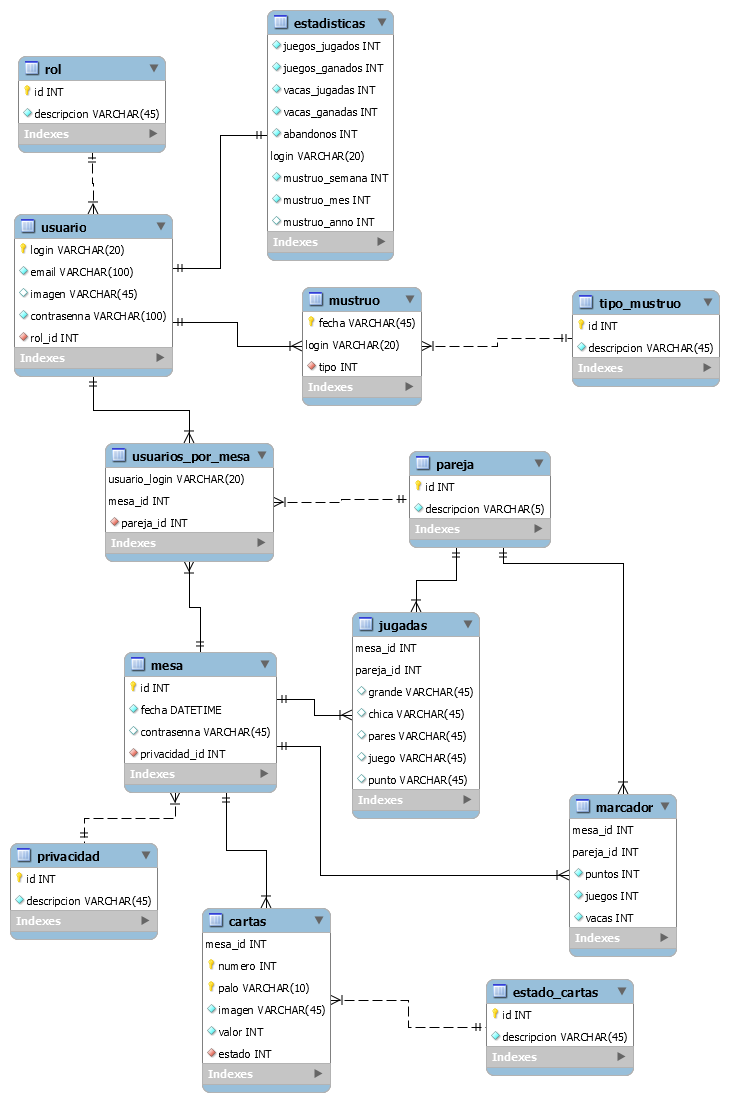
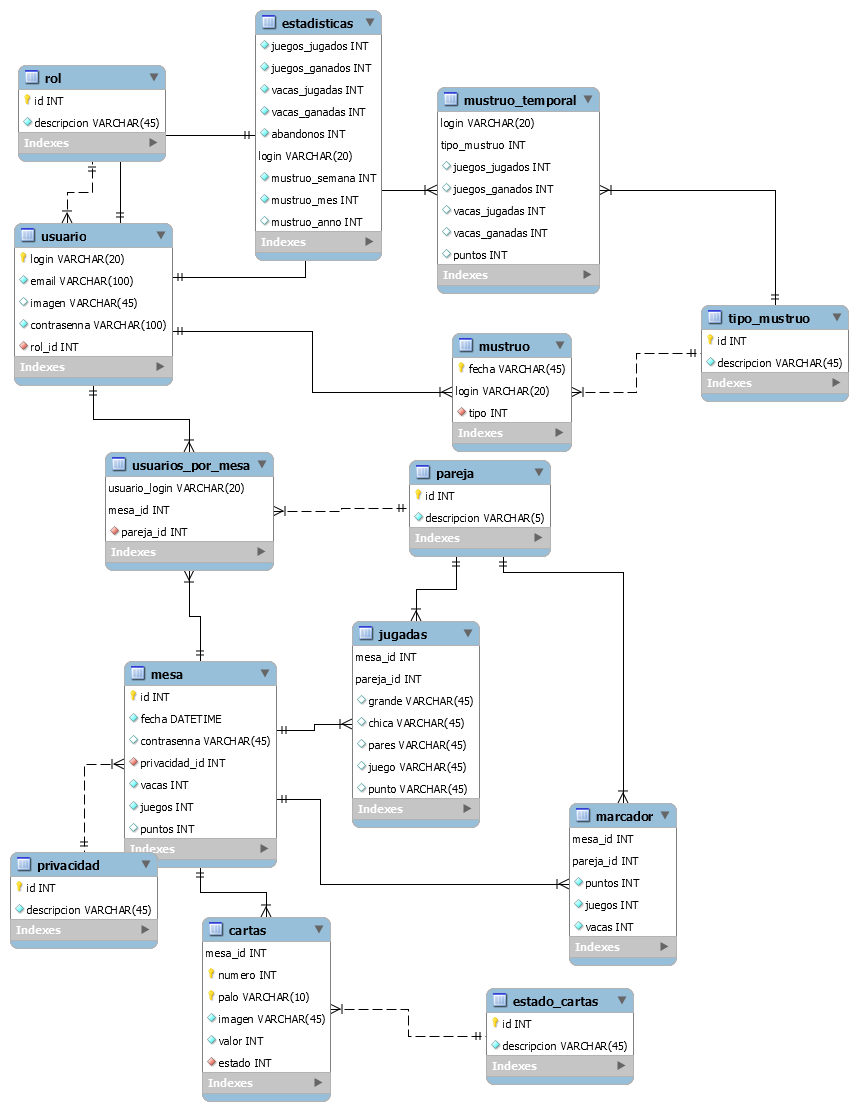
rankings y mejora BBDD

diff --git a/js/lobby.js b/js/lobby.js
@@ -6,6 +6,10 @@ var enviar = document.getElementById("enviarmensaje");
 var mensaje = document.getElementById("mensaje");
 var encabezadoEstadisiticas = document.getElementById("encabezadoestadisiticas");
 var cuerpoEstadisticas = document.getElementById("cuerpoestadisticas");
+var semana = document.getElementById("semana");
+var mes = document.getElementById("mes");
+var anno = document.getElementById("anno");
+var clasificacion = document.getElementById("clasificacion");
 
 //functions
 function renderStats(login) {
@@ -19,8 +23,56 @@ function renderStats(login) {
         <tr><th>Mustruos</th><td>${res.mustruo_semana}</td><td>${res.mustruo_mes}</td><td>${res.mustruo_anno}</td></tr>
         <tr><th>Abandonos</th><td>${res.abandonos}</td></tr></table>`;
         });
-    
 }
+
+function hacerLista(zona, data) {
+    zona.innerHTML = "";
+    var previo = "";
+    for (let user of data) {
+        if (user.login != previo) {
+            let li = document.createElement("li");
+            let login = user.login;
+            li.innerHTML = `<a>${login}</a><span class="puntos">${zona == clasificacion? user.puntos : ""}</span>`;
+            zona.append(li);
+            li.addEventListener("click", () => {
+                encabezadoEstadisiticas.innerHTML = `Estadisticas de ${login}`;
+                renderStats(login);
+            });
+            previo = user.login;
+        }
+    }
+}
+
+//rankings
+fetch(`${path}/api/ranking/0`)
+        .then((res) => res.json())
+        .then((res) => {
+            hacerLista(clasificacion, res);
+        })
+        
+semana.addEventListener("click", () => {
+    fetch(`${path}/api/ranking/0`)
+        .then((res) => res.json())
+        .then((res) => {
+            hacerLista(clasificacion, res);
+        })
+})
+
+mes.addEventListener("click", () => {
+    fetch(`${path}/api/ranking/1`)
+        .then((res) => res.json())
+        .then((res) => {
+            hacerLista(clasificacion, res);
+        })
+})
+
+anno.addEventListener("click", () => {
+    fetch(`${path}/api/ranking/2`)
+        .then((res) => res.json())
+        .then((res) => {
+            hacerLista(clasificacion, res);
+        })
+})
 
 //sockets
 socket.on('connect', () => {
@@ -29,22 +81,8 @@ socket.on('connect', () => {
 });
 
 socket.on('refrescarusuarios', (data) => {
-    usuarios.innerHTML = "";
-    var previo = "";
-    for (let user of data) {
-        if (user.login != previo) {
-            var li = document.createElement("li");
-            let login = user.login;
-            li.innerHTML = `<a>${login}</a>`;
-            usuarios.append(li);
-            li.addEventListener("click", () => {
-                encabezadoEstadisiticas.innerHTML = `Estadisticas de ${login}`;
-                renderStats(login);
-            });
-            previo = user.login;
-        }
-        
-    }
+    hacerLista(usuarios, data);
+
 });
 
 if (usuario != "anonimo") {

diff --git a/orm/ormUser.php b/orm/ormUser.php
@@ -18,7 +18,9 @@ class OrmUser {
         $sql = "INSERT INTO usuario VALUES (?, ?, ?, ?, ?)";        
         $params2 = [$login];
         $sql2 = "INSERT INTO estadisticas (`login`) VALUES (?)";
-        $todoOk = $bd->execute($sql, $params) && $bd->execute($sql2, $params2);
+        $params3 = [$login, $login, $login];
+        $sql3 = "INSERT INTO mustruo_temporal (`login`, `tipo_mustruo`) VALUES (?, 0), (?, 1), (?, 2)";
+        $todoOk = $bd->execute($sql, $params) && $bd->execute($sql2, $params2) && $bd->execute($sql3, $params3);
         $bd->commit();
         return $todoOk;
     }
@@ -42,5 +44,12 @@ class OrmUser {
         $params = [$login];
         $sql = "SELECT `juegos_jugados`, `juegos_ganados`, `vacas_jugadas`, `vacas_ganadas`, `abandonos`, `mustruo_semana`, `mustruo_mes`, `mustruo_anno` FROM `estadisticas` WHERE login = ?";
         return $bd->queryOne($sql, $params);
+    }
+
+    public function obtenerRanking($tipo) {
+        $bd = Klasto::getInstance();
+        $params = [$tipo];
+        $sql = "SELECT `login`, `puntos` FROM `mustruo_temporal` WHERE `tipo_mustruo` = ? ORDER BY puntos DESC LIMIT 10";
+        return $bd->query($sql, $params);
     }
 }

diff --git a/controller/apiController.php b/controller/apiController.php
@@ -30,4 +30,11 @@ class ApiController extends Controller {
         $orm = new OrmUser;
         echo json_encode($orm->obtenerEstadisticas($login));
     }
+
+    function obtenerRanking($tipo) {
+        header('Content-type: application/json');
+        $orm = new OrmUser;
+        //echo var_dump(json_encode($orm->obtenerRanking($tipo)));
+        echo json_encode($orm->obtenerRanking($tipo));        
+    }
 }

diff --git a/index.php b/index.php
@@ -24,6 +24,8 @@ Macaw::get($URL_PATH . '/mesa/(:any)', "controller\MesaController@partida");
 
 Macaw::get($URL_PATH . '/api/estadisticas/(:any)', "controller\ApiController@obtenerEstadisticas");
 
+Macaw::get($URL_PATH . '/api/ranking/(:any)', "controller\ApiController@obtenerRanking");
+
 
 Macaw::error(function() {
     echo '404 :: Not Found';
